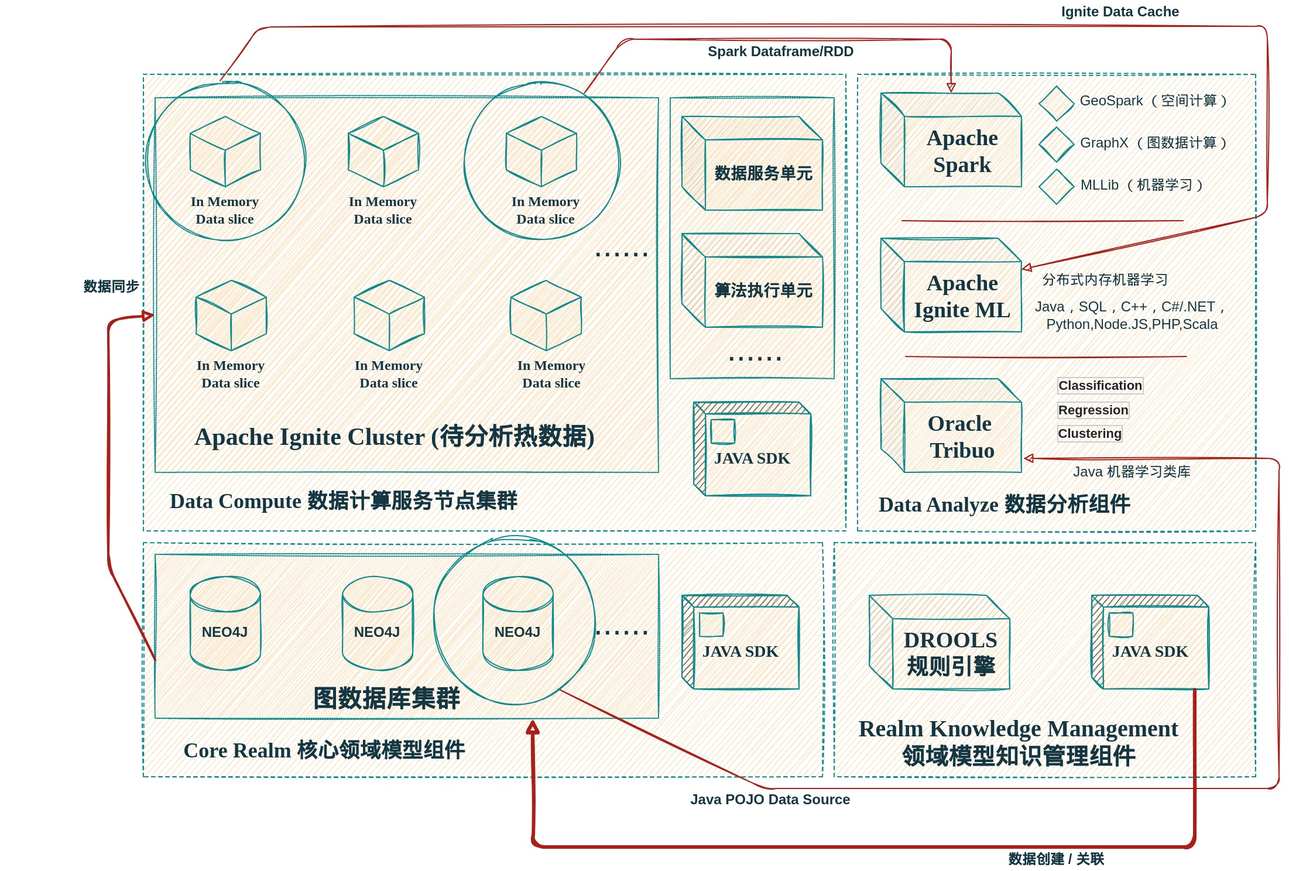
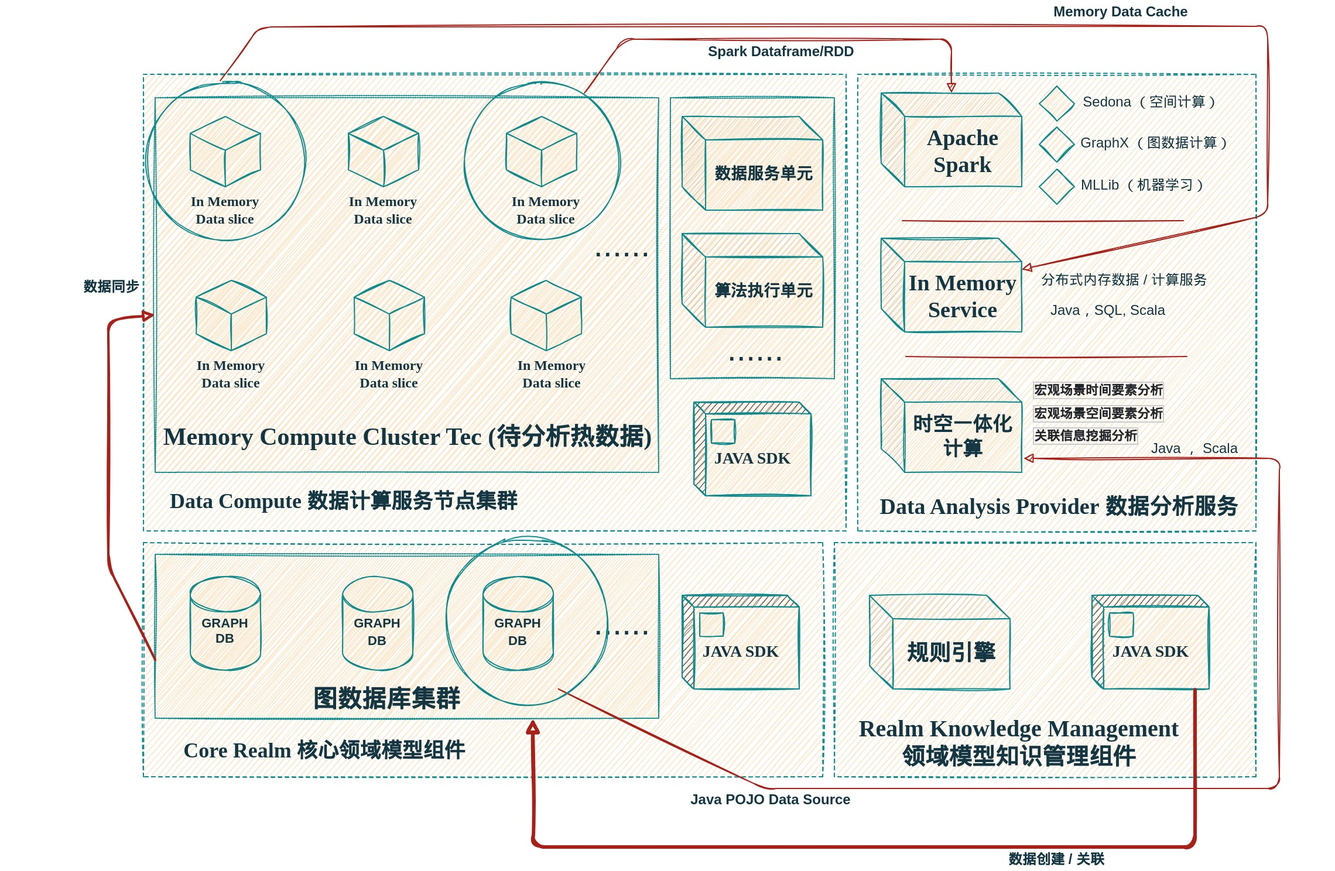
update for documentation writing

diff --git a/README.md b/README.md
@@ -336,18 +336,20 @@ DOCG 数据分析平台利用核心领域模型以及图数据库技术的特性
 
 ### § 实时内存计算
 
-
 知识图谱的构建遵循知识抽取、知识融合、知识加工、知识应用的基本流程。从海量结构化和非结构化数据中进行实体、关系、属性和事件的信息提取，通过本体和实体对齐、指代消解解决多种类型的数据冲突问题，完成知识融合。将知识存储到知识库中，最后进行进一步的知识推理和图谱应用。
 
 
 
+<img src="Documentation/intro/documentPic/DOCG-Component-WholePicture.jpg" style="zoom:33%;" />
+
+<center> DOCG 数据分析平台实时内存计算功能架构</center>
 
 
 ####  <span style="color:#0074D9;"> ○ 数据计算网格</span>
 
 以下是相关技术信息的详细内容介绍：
 
-- [DOCG 数据分析平台核心领域模型 可分析图应用说明](./Documentation/dataCompute/Java SDK API.md)
+- [DOCG 数据分析平台 Data Compute 应用指南](./Documentation/dataCompute/Java SDK API.md)
 
 
 
@@ -360,4 +362,15 @@ DOCG 数据分析平台利用核心领域模型以及图数据库技术的特性
 
 
 
-<img src="Documentation/intro/documentPic/graph_01.png" style="zoom:12.5%;" />
+
+
+
+
+
+
+
+
+
+
+
+<img src="Documentation/intro/documentPic/graph_01.png" style="zoom:6.25%;" />
